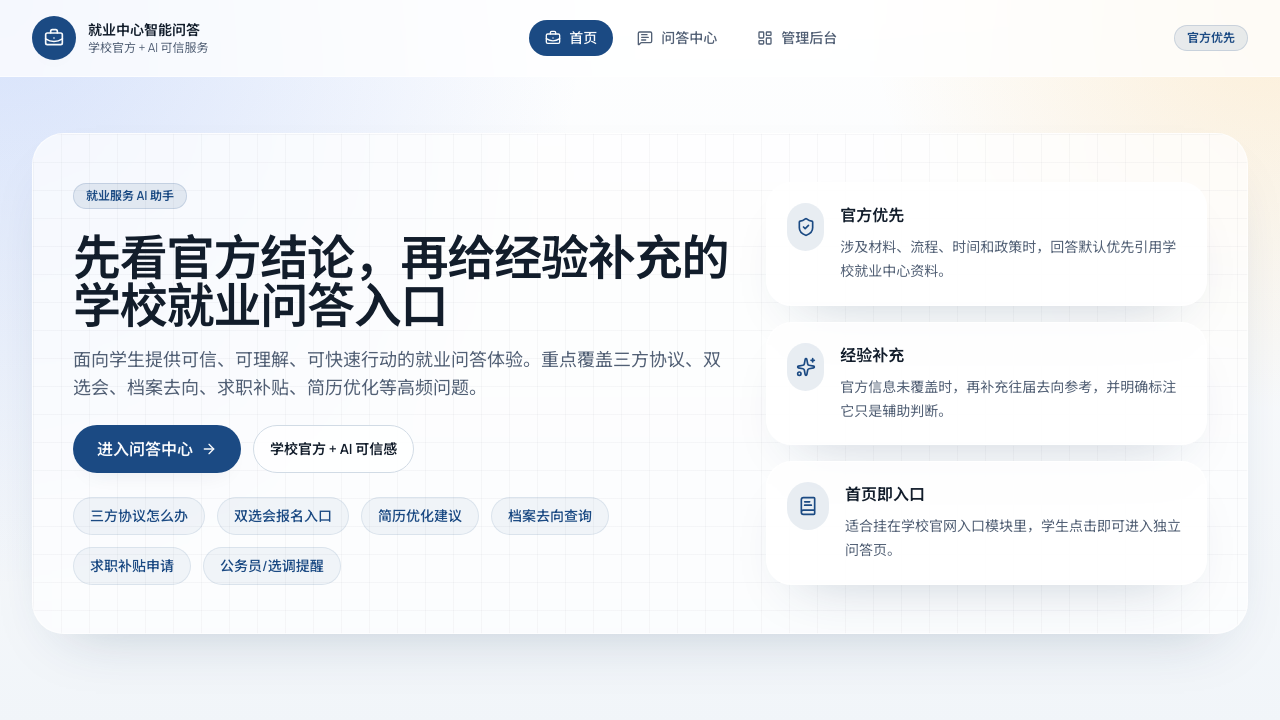
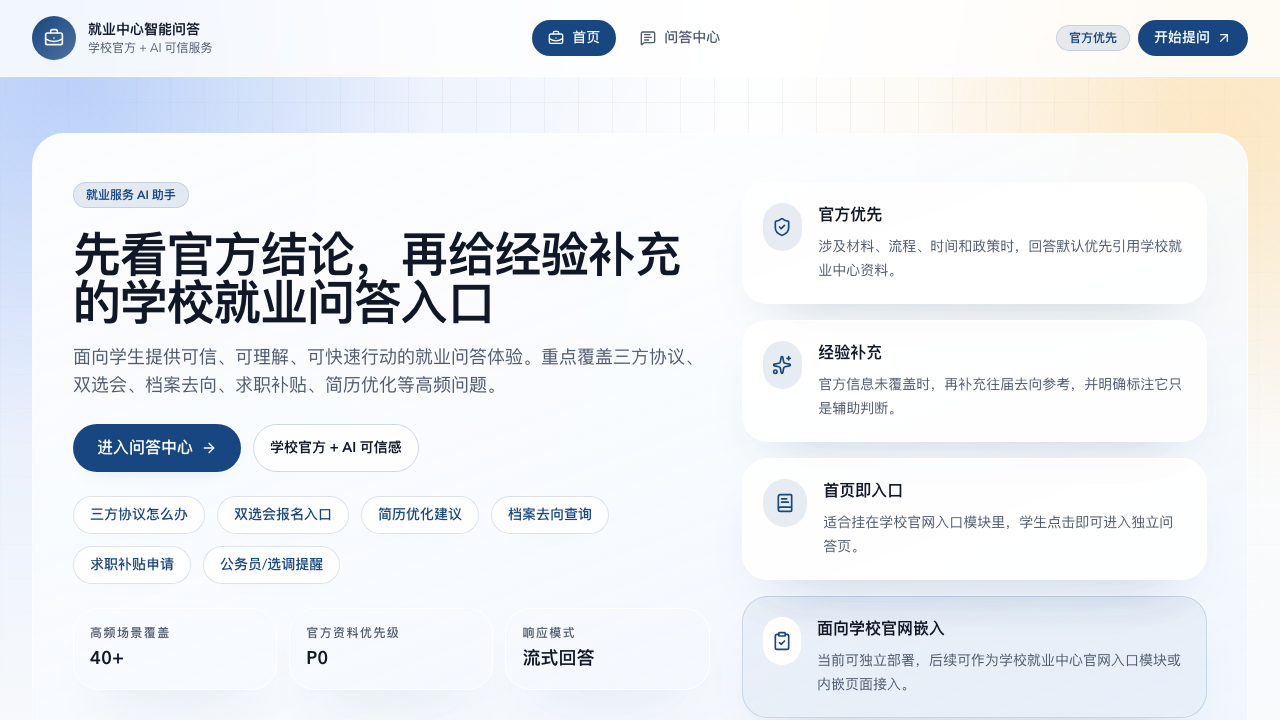
docs: finalize release handoff with fresh verification evidence

diff --git a/README.md b/README.md
@@ -9,6 +9,18 @@ This branch rebuilds the earlier MVP around a stronger product shell:
 - official materials and graduate destination data in one retrieval flow
 - absolute official-first behavior when evidence conflicts
 
+## Launch Readiness
+
+Release baseline is now complete for `F1-F8` launch tasks:
+- public/admin boundary hardening (`/admin` route gate + hidden public entry)
+- ingestion governance (format validation, duplicate replacement, structured errors)
+- explainability (answer-level source evidence with snippet + source name)
+- reliability guardrails (rate limit, timeout, frontend retry/backoff)
+- observability (request-id middleware + structured operation logs)
+- CI/deploy baseline (GitHub Actions + hardened Nginx proxy config)
+- launch UX completion (service notice, usage guide, FAQ/help, support blocks)
+- release evidence package (full verification + refreshed screenshots)
+
 ## Architecture
 
 - `frontend/`: Next.js 14 + TypeScript + Tailwind CSS + shadcn-style UI primitives
@@ -18,7 +30,7 @@ This branch rebuilds the earlier MVP around a stronger product shell:
 - `backend/app/retrieval/policy.py`: enforces official-first resolution
 - `backend/app/retrieval/store.py`: local persisted vector-like index for MVP reliability
 
-The UI direction is intentionally based on `vercel/chatbot` patterns, but adapted for a school employment-center product instead of importing its auth, database, or multi-user chat stack. The transplant notes live in [docs/reference-audit.md](/Users/bran/.config/superpowers/worktrees/employment-qa-mvp/v2-rebuild/docs/reference-audit.md).
+The UI direction is intentionally based on `vercel/chatbot` patterns, but adapted for a school employment-center product instead of importing its auth, database, or multi-user chat stack. The transplant notes live in [docs/reference-audit.md](docs/reference-audit.md).
 
 ## Public Product Scope
 
@@ -69,8 +81,23 @@ cd frontend && npm run build
 docker compose config
 ```
 
+## Release Artifacts
+
+- latest screenshots:
+  - `docs/screenshots/home.png`
+  - `docs/screenshots/qa.png`
+  - `docs/screenshots/admin.png`
+- CI workflow: `.github/workflows/ci.yml`
+- deployment hardening notes: `docs/deployment.md`
+
 ## Deployment Notes
 
 - independent deployment comes first; the school homepage links into this product
 - future iframe/embed support is controlled by `frame-ancestors` in `frontend/next.config.js`
-- full topology and ops notes live in [docs/deployment.md](/Users/bran/.config/superpowers/worktrees/employment-qa-mvp/v2-rebuild/docs/deployment.md)
+- full topology and ops notes live in [docs/deployment.md](docs/deployment.md)
+
+## Known Limitations (v1)
+
+- no student account system and no cross-session history
+- admin relies on token gate + token login (no RBAC)
+- source ingestion is file-upload based only (no URL crawling / pasted-rich-text pipeline)
